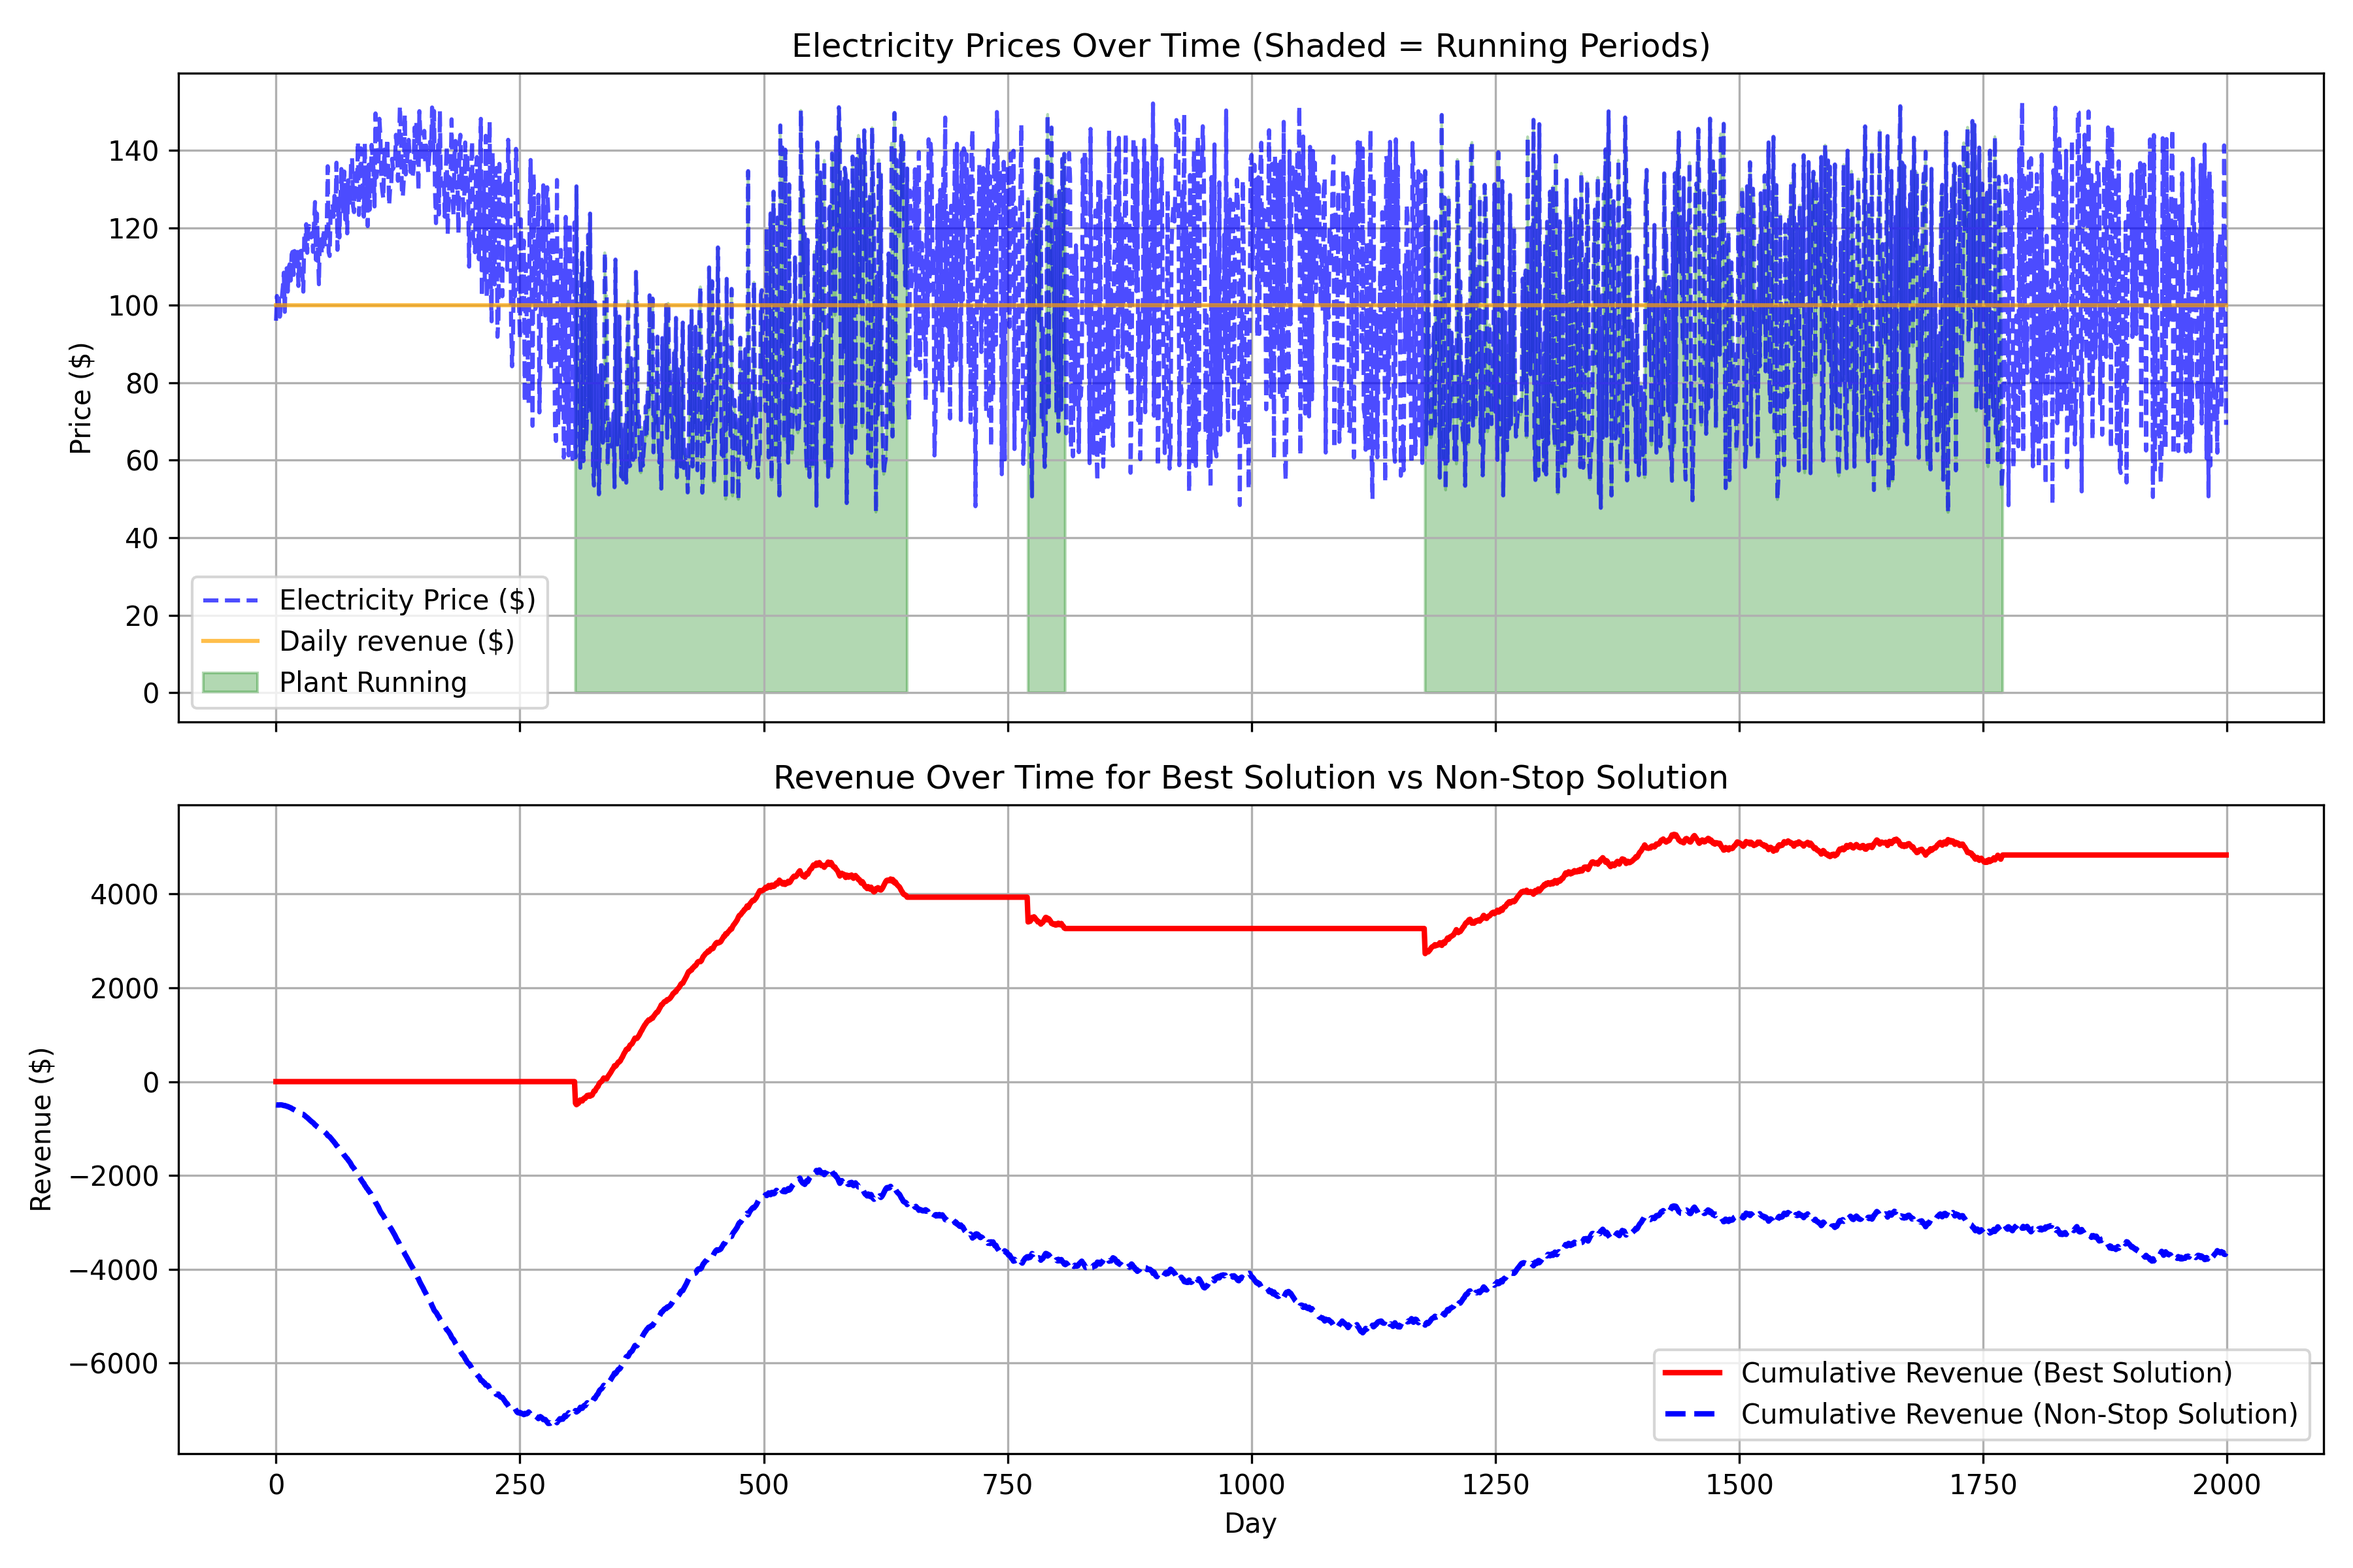
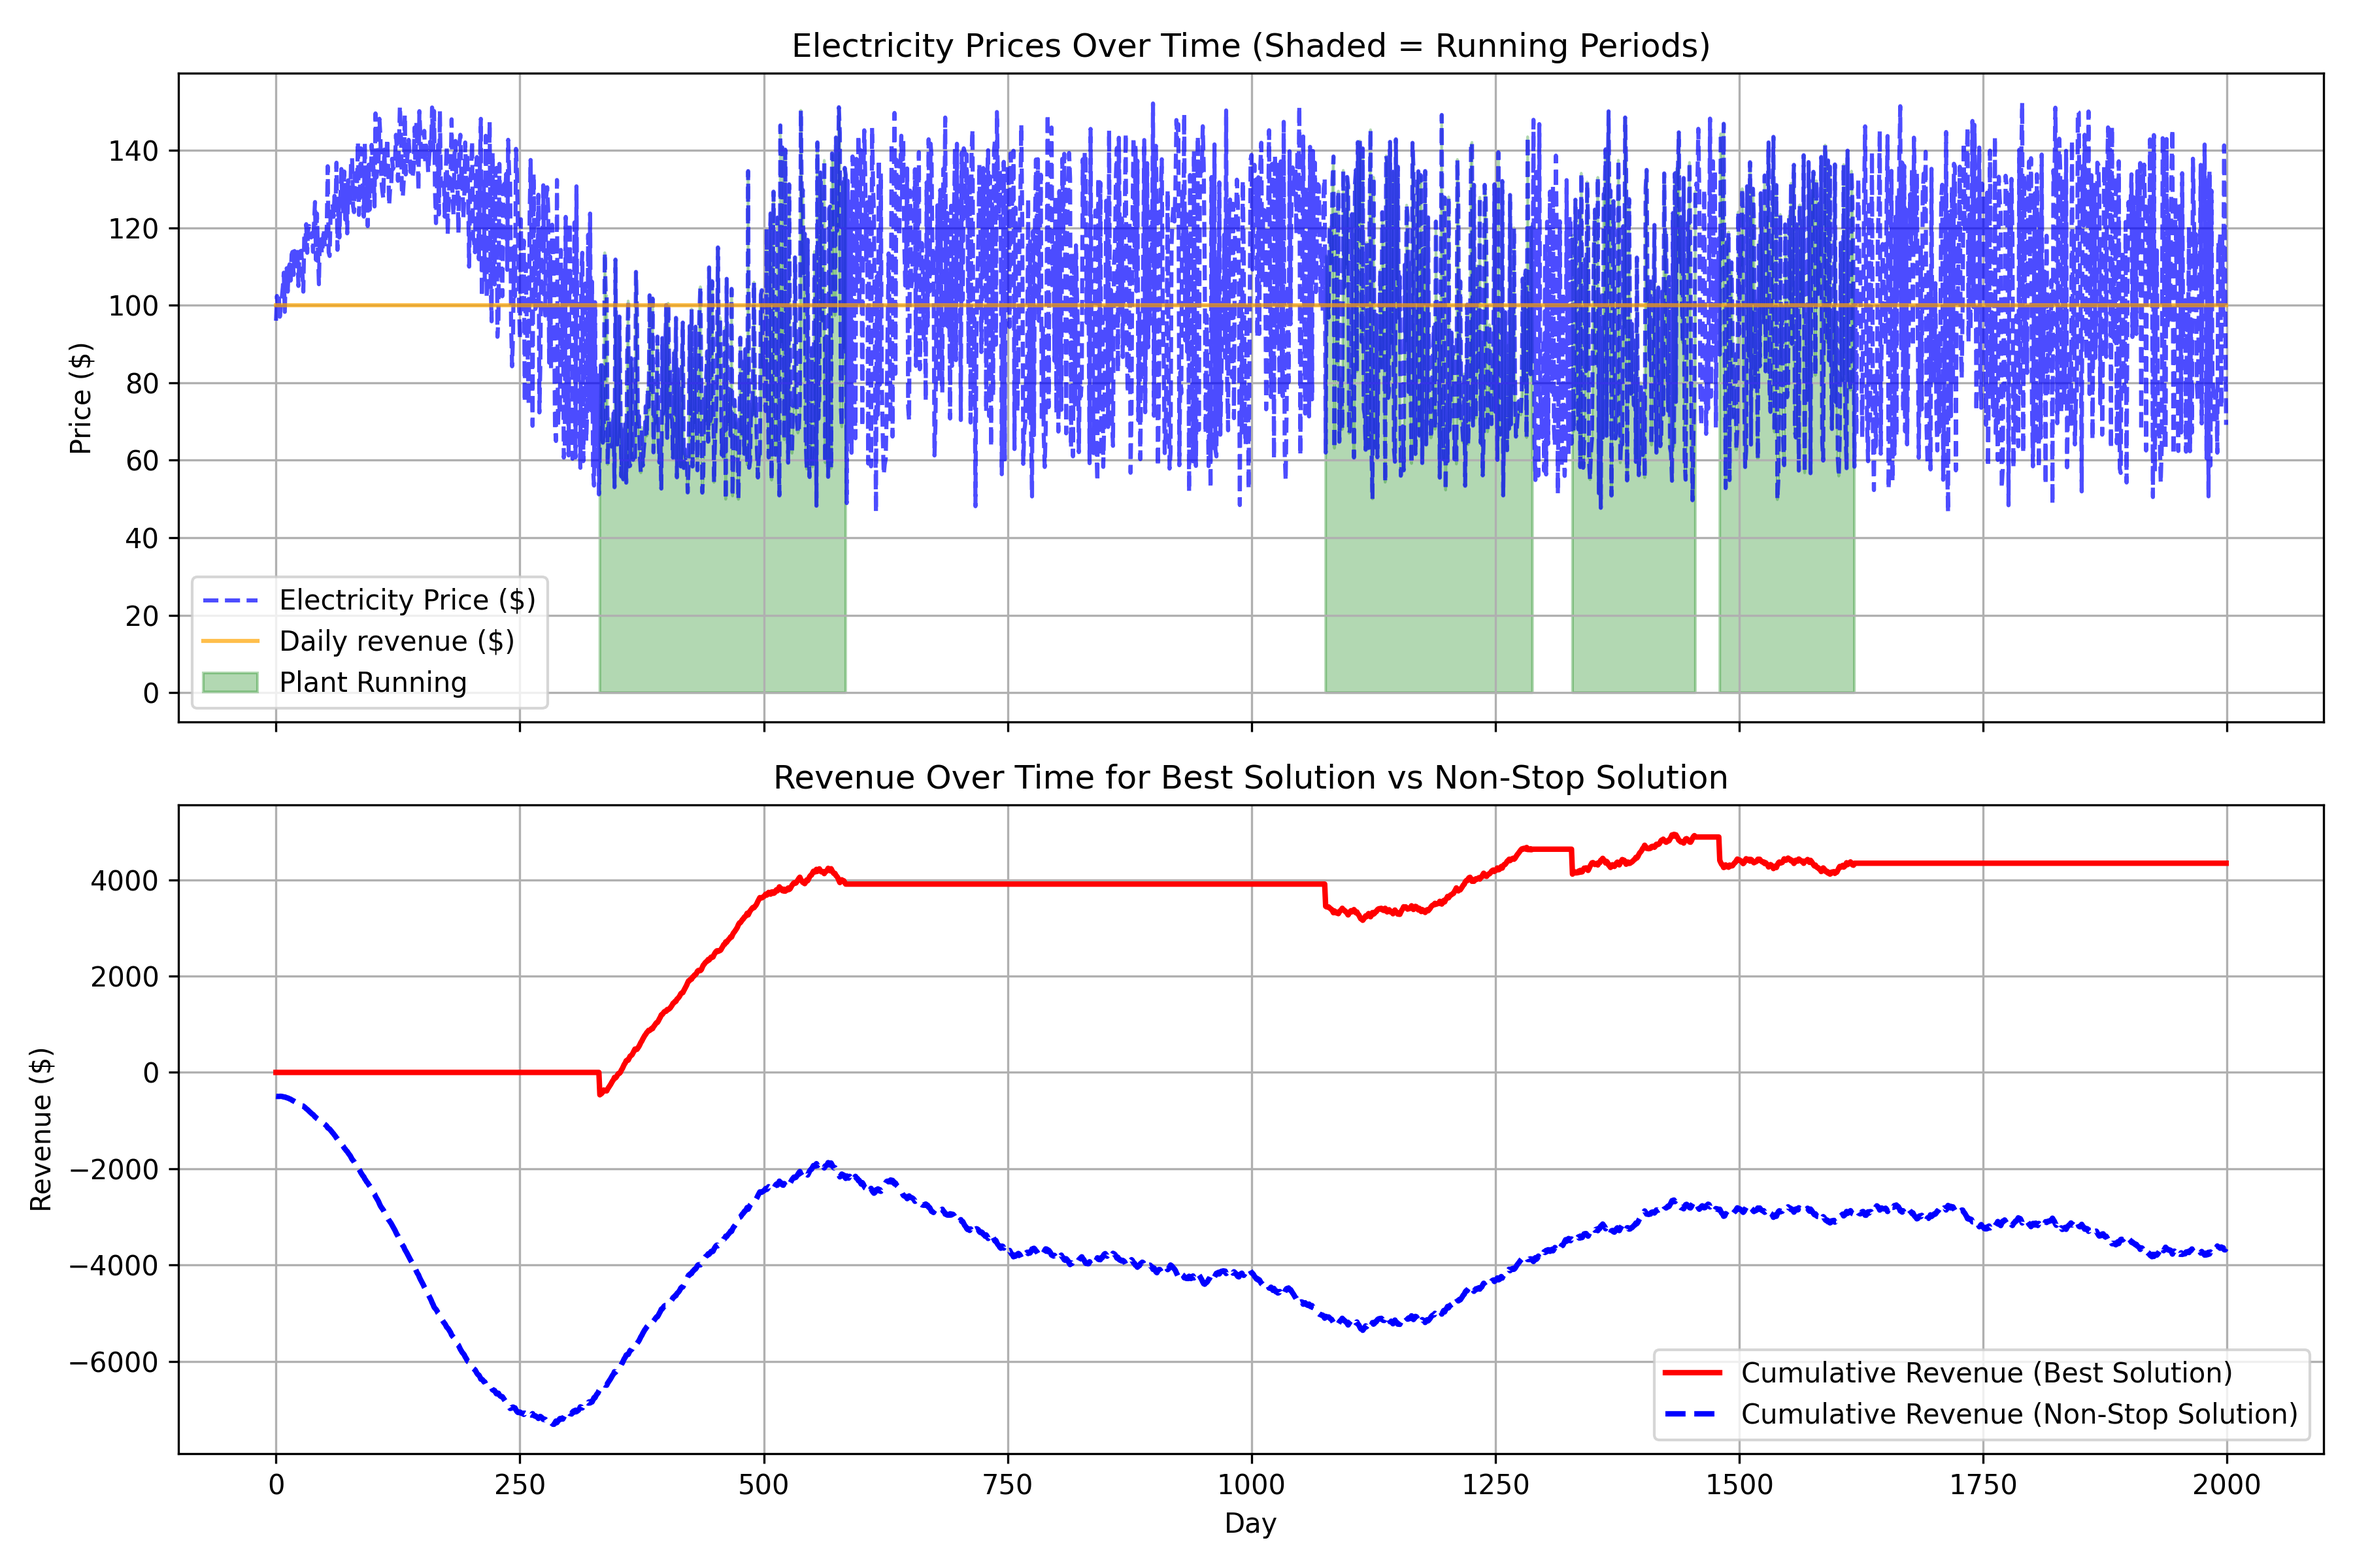
Better training parameters imo

diff --git a/pygad_plant_sim.py b/pygad_plant_sim.py
@@ -79,7 +79,7 @@ ga_instance.run()  # Start the genetic algorithm
 solution, solution_fitness, solution_idx = ga_instance.best_solution()
 
 ga_instance = pygad.GA(
-    num_generations=num_generations//4,
+    num_generations=num_generations//2,
     num_parents_mating=num_parents_mating,
     fitness_func=lambda ga, sol, idx: fitness_func(ga, sol, idx),  # Fitness function only returns revenue
     sol_per_pop=sol_per_pop,
